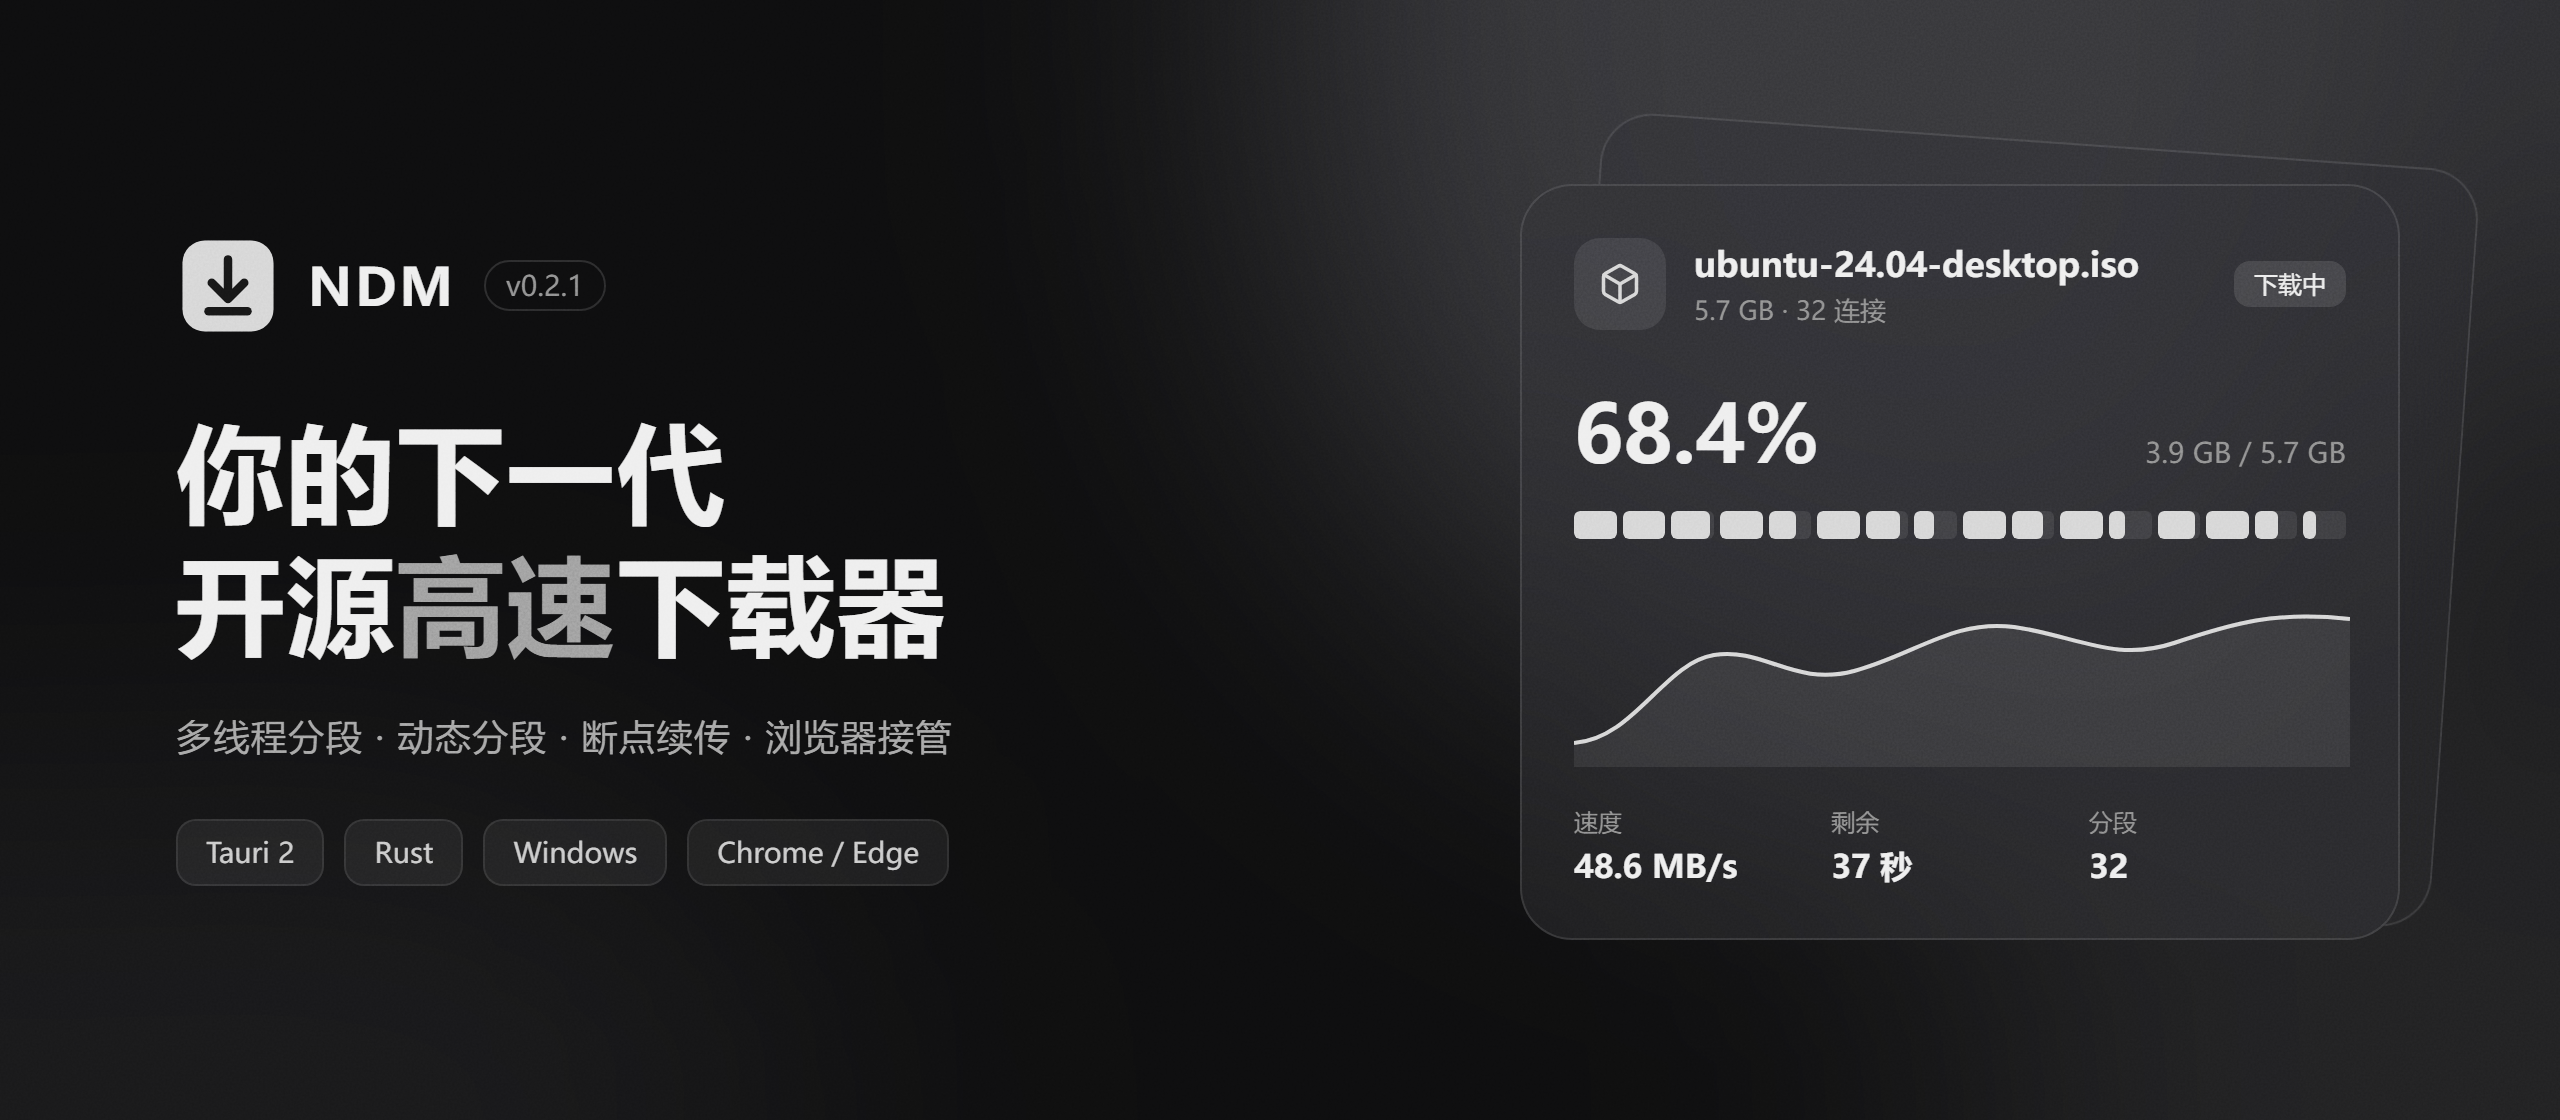
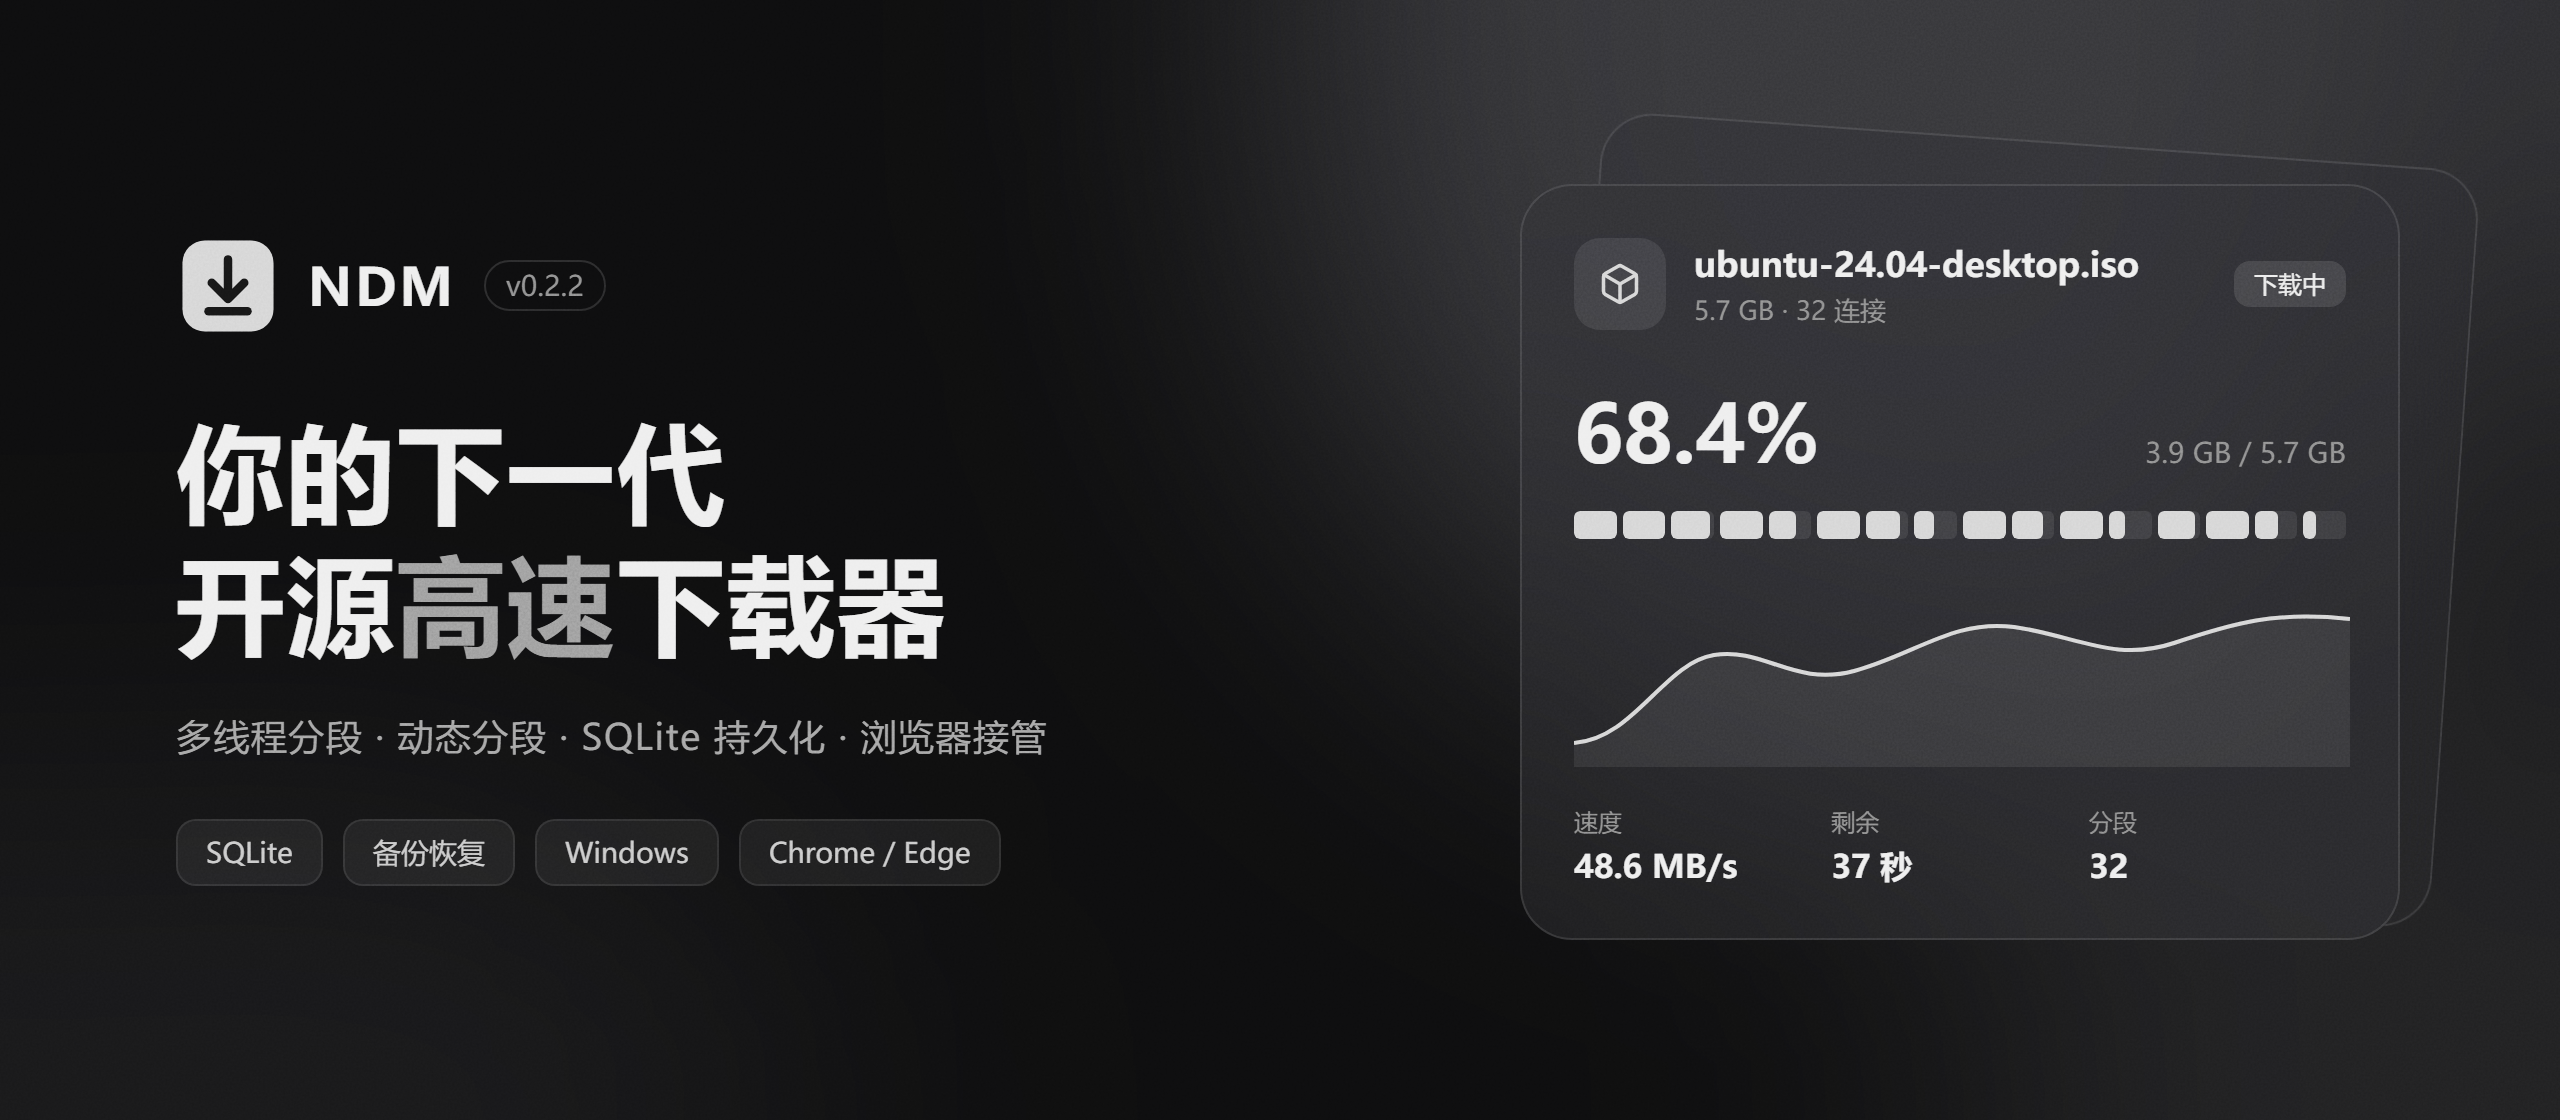
更新官网与 v0.2.2 头图

Changed region(s): [[0.2188, 0.625, 0.4062, 0.6875], [0.0625, 0.75, 0.375, 0.7812]]

diff --git a/docs/index.html b/docs/index.html
@@ -4,10 +4,10 @@
 <meta charset="utf-8" />
 <meta name="viewport" content="width=device-width, initial-scale=1" />
 <title>NDM — 你的下一代开源高速下载器</title>
-<meta name="description" content="NDM 是基于 Tauri 2 + Rust 的开源多线程下载管理器：多连接分段、动态分段、断点续传、浏览器接管、OpenList 整目录下载。" />
+<meta name="description" content="NDM 是基于 Tauri 2 + Rust 的开源多线程下载管理器：多连接分段、动态分段、断点续传、SQLite 持久化、浏览器接管、OpenList 整目录下载。" />
 <meta name="theme-color" content="#0d0d0e" />
 <meta property="og:title" content="NDM — 你的下一代开源高速下载器" />
-<meta property="og:description" content="开源多线程下载管理器，IDM 替代品。" />
+<meta property="og:description" content="开源多线程下载管理器，支持 SQLite、备份恢复与浏览器接管。" />
 <meta property="og:image" content="https://fttawa.github.io/NDM/banner.png" />
 <link rel="icon" href="icon.svg" type="image/svg+xml" />
 <style>
@@ -194,9 +194,9 @@
 
   <header class="hero">
     <div class="wrap">
-      <div class="badge glass"><b id="ver">v0.2.1</b> 已发布 · 免费开源</div>
+      <div class="badge glass"><b id="ver">v0.2.2</b> 已发布 · 免费开源</div>
       <h1>你的下一代<br />开源<em>高速</em>下载器</h1>
-      <p class="lead">多连接分段加速、动态分段、断点续传，接管浏览器下载。基于 Tauri 2 与 Rust，安装包仅约 2 MB。</p>
+      <p class="lead">多连接分段加速、动态分段、断点续传，接管浏览器下载。SQLite 持久化与备份恢复，让任务始终在手边。</p>
       <div class="cta">
         <a class="btn primary" id="dl" href="https://github.com/fttawa/NDM/releases/latest">
           <svg viewBox="0 0 24 24" fill="none" stroke="currentColor" stroke-width="2.2" stroke-linecap="round" stroke-linejoin="round"><path d="M12 4v11M7 10l5 5 5-5M5 20h14"/></svg>
@@ -251,6 +251,11 @@
           <div class="ic"><svg viewBox="0 0 24 24"><path d="M21 12a9 9 0 1 1-3-6.7L21 8"/><path d="M21 3v5h-5"/></svg></div>
           <h3>断点续传</h3>
           <p>分段进度持久化，崩溃或重启后从断点继续；服务器不支持 Range 时自动降级为单连接。</p>
+        </div>
+        <div class="tile glass s3">
+          <div class="ic"><svg viewBox="0 0 24 24"><ellipse cx="12" cy="5" rx="8" ry="3"/><path d="M4 5v7c0 1.7 3.6 3 8 3s8-1.3 8-3V5"/><path d="M4 12v7c0 1.7 3.6 3 8 3s8-1.3 8-3v-7"/></svg></div>
+          <h3>SQLite 持久化与备份</h3>
+          <p>任务和设置保存在 SQLite，旧版 JSON 自动迁移；支持导入导出，数据库损坏时自动备份并恢复。</p>
         </div>
         <div class="tile glass s3">
           <div class="ic"><svg viewBox="0 0 24 24"><path d="M9 11l3 3L22 4"/><path d="M21 12v7a2 2 0 0 1-2 2H5a2 2 0 0 1-2-2V5a2 2 0 0 1 2-2h11"/></svg></div>

diff --git a/docs/banner/banner.html b/docs/banner/banner.html
@@ -99,10 +99,10 @@
   </div>
 
   <div class="left">
-    <div class="brand"><img src="../../public/app-icon.svg" /><b>NDM</b><span>v0.2.1</span></div>
+    <div class="brand"><img src="../../public/app-icon.svg" /><b>NDM</b><span>v0.2.2</span></div>
     <h1>你的下一代<br />开源<em>高速</em>下载器</h1>
-    <div class="sub">多线程分段 · 动态分段 · 断点续传 · 浏览器接管</div>
-    <div class="tags"><span>Tauri 2</span><span>Rust</span><span>Windows</span><span>Chrome / Edge</span></div>
+    <div class="sub">多线程分段 · 动态分段 · SQLite 持久化 · 浏览器接管</div>
+    <div class="tags"><span>SQLite</span><span>备份恢复</span><span>Windows</span><span>Chrome / Edge</span></div>
   </div>
 
   <div class="grain"></div>

diff --git a/README.md b/README.md
@@ -10,7 +10,7 @@
 </p>
 
 <p align="center">
-  多线程分段 · 动态分段 · 断点续传 · 浏览器接管 · OpenList 整目录下载
+  多线程分段 · 动态分段 · SQLite 持久化 · 浏览器接管 · OpenList 整目录下载
 </p>
 
 ---
@@ -31,6 +31,7 @@ NDM 是一个基于 Tauri 2 + Rust 的多线程下载管理器，目标是成为
 | **动态分段** | 空闲连接自动拆分剩余最多的分段接手，跑到最后也不掉速 |
 | **连接超频** | 实测请求到服务器开始传输的延迟，预判即将传完或重试中的连接，提前补上新连接（最多加开连接数的一半）防止掉速 |
 | **断点续传** | 分段进度持久化，崩溃或重启后从断点继续；服务器不支持 Range 时自动降级单连接 |
+| **SQLite 存储** | 任务与设置使用 SQLite 保存，旧版 JSON 自动迁移；支持导入导出与损坏恢复 |
 | **浏览器接管** | Chrome / Edge 扩展在「另存为」弹出前拦截下载，连同 Cookie、Referer、UA 一起转交 |
 | **IDM 式小卡片** | 拦截后弹出置顶确认卡片，点击「开始下载」原地展开为进度窗口，不打扰主窗口 |
 | **OpenList / AList** | 一键爬取当前文件夹（可含子文件夹），勾选后批量下载，保留目录结构与真实文件名 |
